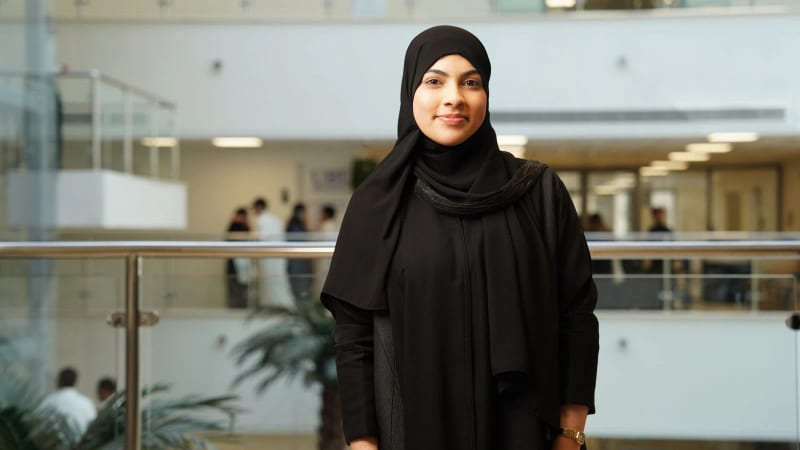
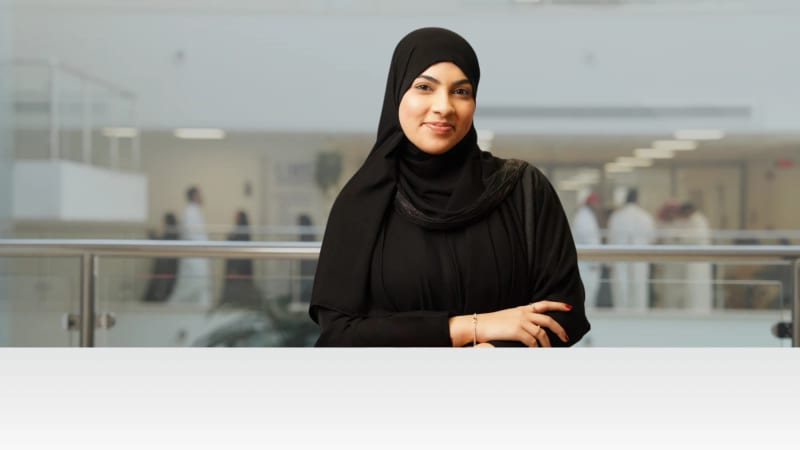
Tighter hero crop, and no veil at the top
You were right that the gradient was unnecessary with this frame. The
previous crop had a dark band the navigation had to sit on — 4.26:1 at
its worst, under the 4.5 minimum, which is what the paper veil was
holding up. This crop is bright across the full width: measured from
rendered pixels with the type hidden, every nav element now clears
8.1:1 with nothing over the photograph at all. The veil is gone.

The foot scrim stays, since it carries the name.

One thing the brighter frame did break: the small rail type at the foot
("Scroll", the discipline line) was 70% white and fell to 4.07:1 against
its own backdrop at 1440x900. It is full white now, which clears it
without darkening the photograph further.

The contrast check was still modelling that 70% by hand in its target
list, so it kept reporting the old figure after the fix. It reads the
element's computed alpha instead now — the same stale-assumption bug
the hardcoded white colour had.

Claude-Session: https://claude.ai/code/session_01GnrW7EvyFLiE4JkSmEmjT6

diff --git a/src/components/Hero/Hero.css b/src/components/Hero/Hero.css
@@ -40,20 +40,6 @@
   pointer-events: none;
 }
 
-/* Not the black band this replaced — a paper veil, lifting the top of the
-   frame just enough for ink navigation to clear 4.5:1 on every crop. The
-   photograph stays bright; this only takes the edge off its darkest band. */
-.hero__scrim--top {
-  top: 0;
-  height: 15%;
-  background: linear-gradient(
-    to bottom,
-    rgba(244, 242, 237, 0.62) 0%,
-    rgba(244, 242, 237, 0.38) 48%,
-    rgba(244, 242, 237, 0) 100%
-  );
-}
-
 .hero__scrim--bottom {
   bottom: 0;
   /* Deliberately light — a vignette, not a black wash. Only the very bottom
@@ -139,7 +125,10 @@
   font-size: var(--t-label);
   letter-spacing: var(--tr-label);
   text-transform: uppercase;
-  color: var(--white-70);
+  /* Full white, not 70%: the brighter crop left the foot rail at
+     4.07:1 against its own backdrop. Lifting the type clears it
+     without darkening the photograph further. */
+  color: var(--white);
   text-align: right;
 }
 
@@ -200,7 +189,10 @@
   font-size: var(--t-label);
   letter-spacing: var(--tr-label);
   text-transform: uppercase;
-  color: var(--white-70);
+  /* Full white, not 70%: the brighter crop left the foot rail at
+     4.07:1 against its own backdrop. Lifting the type clears it
+     without darkening the photograph further. */
+  color: var(--white);
 }
 
 .hero__cue-line {

diff --git a/src/components/Hero/Hero.tsx b/src/components/Hero/Hero.tsx
@@ -61,9 +61,9 @@ export function Hero() {
         />
       </motion.div>
 
-      {/* The foot scrim carries the name; the top one is a paper veil, not
-          the old black band — the navigation runs ink-on-bright up there. */}
-      <div className="hero__scrim hero__scrim--top" aria-hidden="true" />
+      {/* One scrim, at the foot, carrying the name. Nothing at the top:
+          this crop is bright enough across the full width for the
+          navigation to run on ink unaided — measured, not assumed. */}
       <div className="hero__scrim hero__scrim--bottom" aria-hidden="true" />
 
       {/* Self-contained dark pill: legible wherever the photograph is bright. */}

diff --git a/src/data/site.ts b/src/data/site.ts
@@ -35,10 +35,10 @@ export const site = {
     aboutSrc: '/assets/portrait/maryam-portrait.jpg',
     /* Widths that exist on disk, smallest first. The browser picks one via
        srcset; `src` above is the fallback. Must match scripts/optimize-images.mjs. */
-    widths: [800, 1200, 1600],
+    widths: [800, 1200, 2000],
     /* Where the face sits in the frame, as x% y%. The hero crops hard on
        tall viewports and this is what keeps her in shot. */
-    focus: '56% 32%',
+    focus: '54% 30%',
   },
 
   /* --- Resume ----------------------------------------------------------

diff --git a/src/data/about.ts b/src/data/about.ts
@@ -33,7 +33,7 @@ export const introPortrait: MediaItem = {
   src: '/assets/portrait/maryam-portrait.jpg',
   alt: 'Maryam Imran at the University of Business & Technology in Jeddah',
   ratio: '16/9',
-  focus: '56% 32%',
+  focus: '54% 30%',
 };
 
 export const montage: MontageItem[] = [
